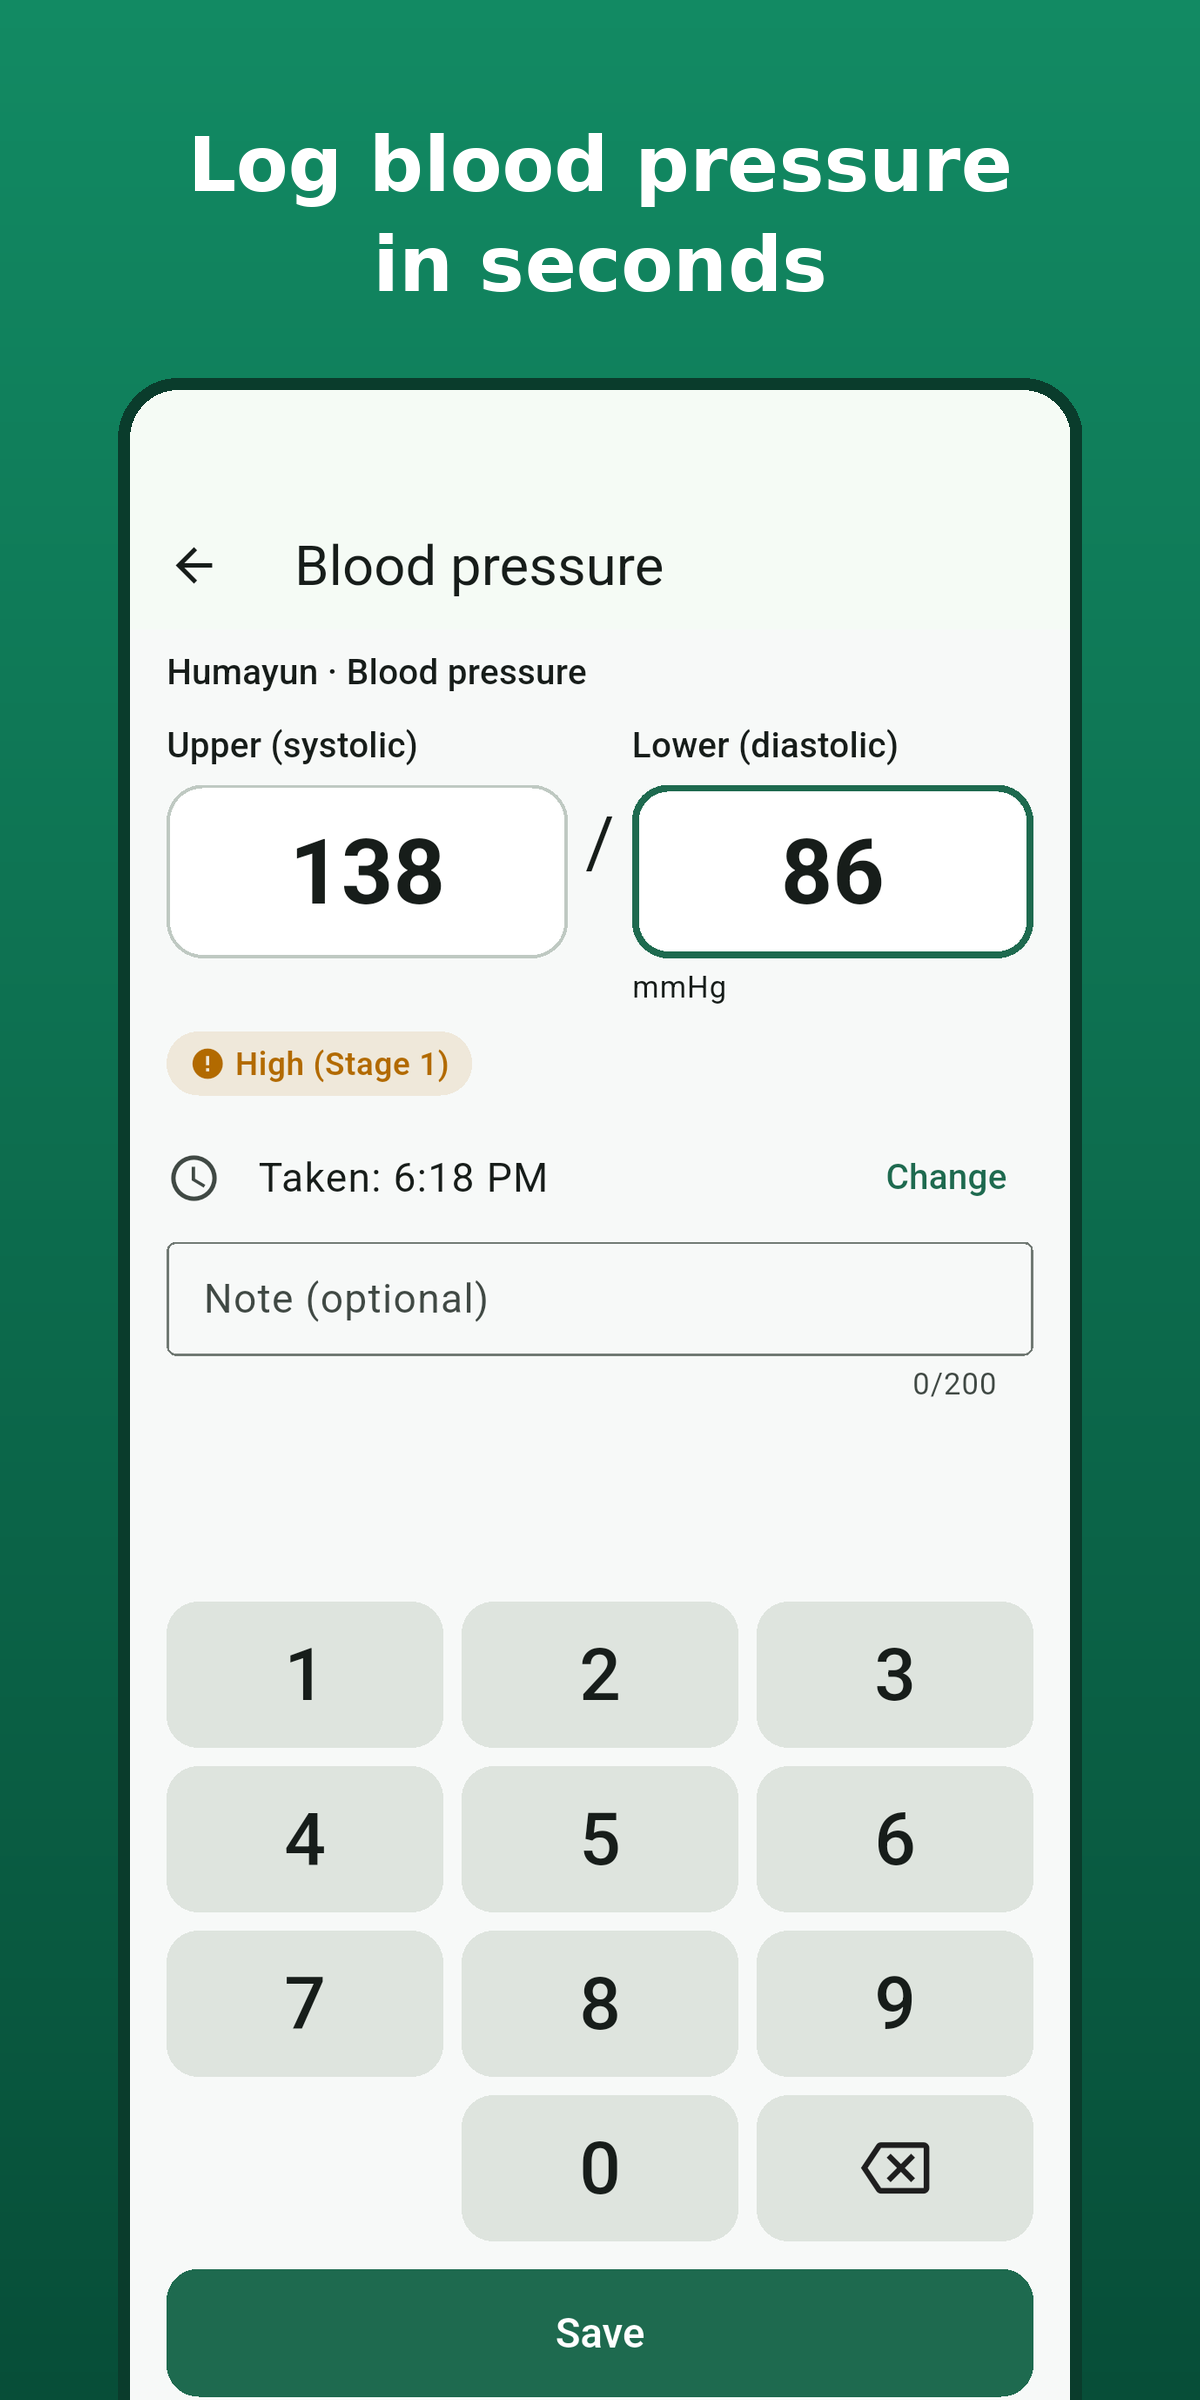
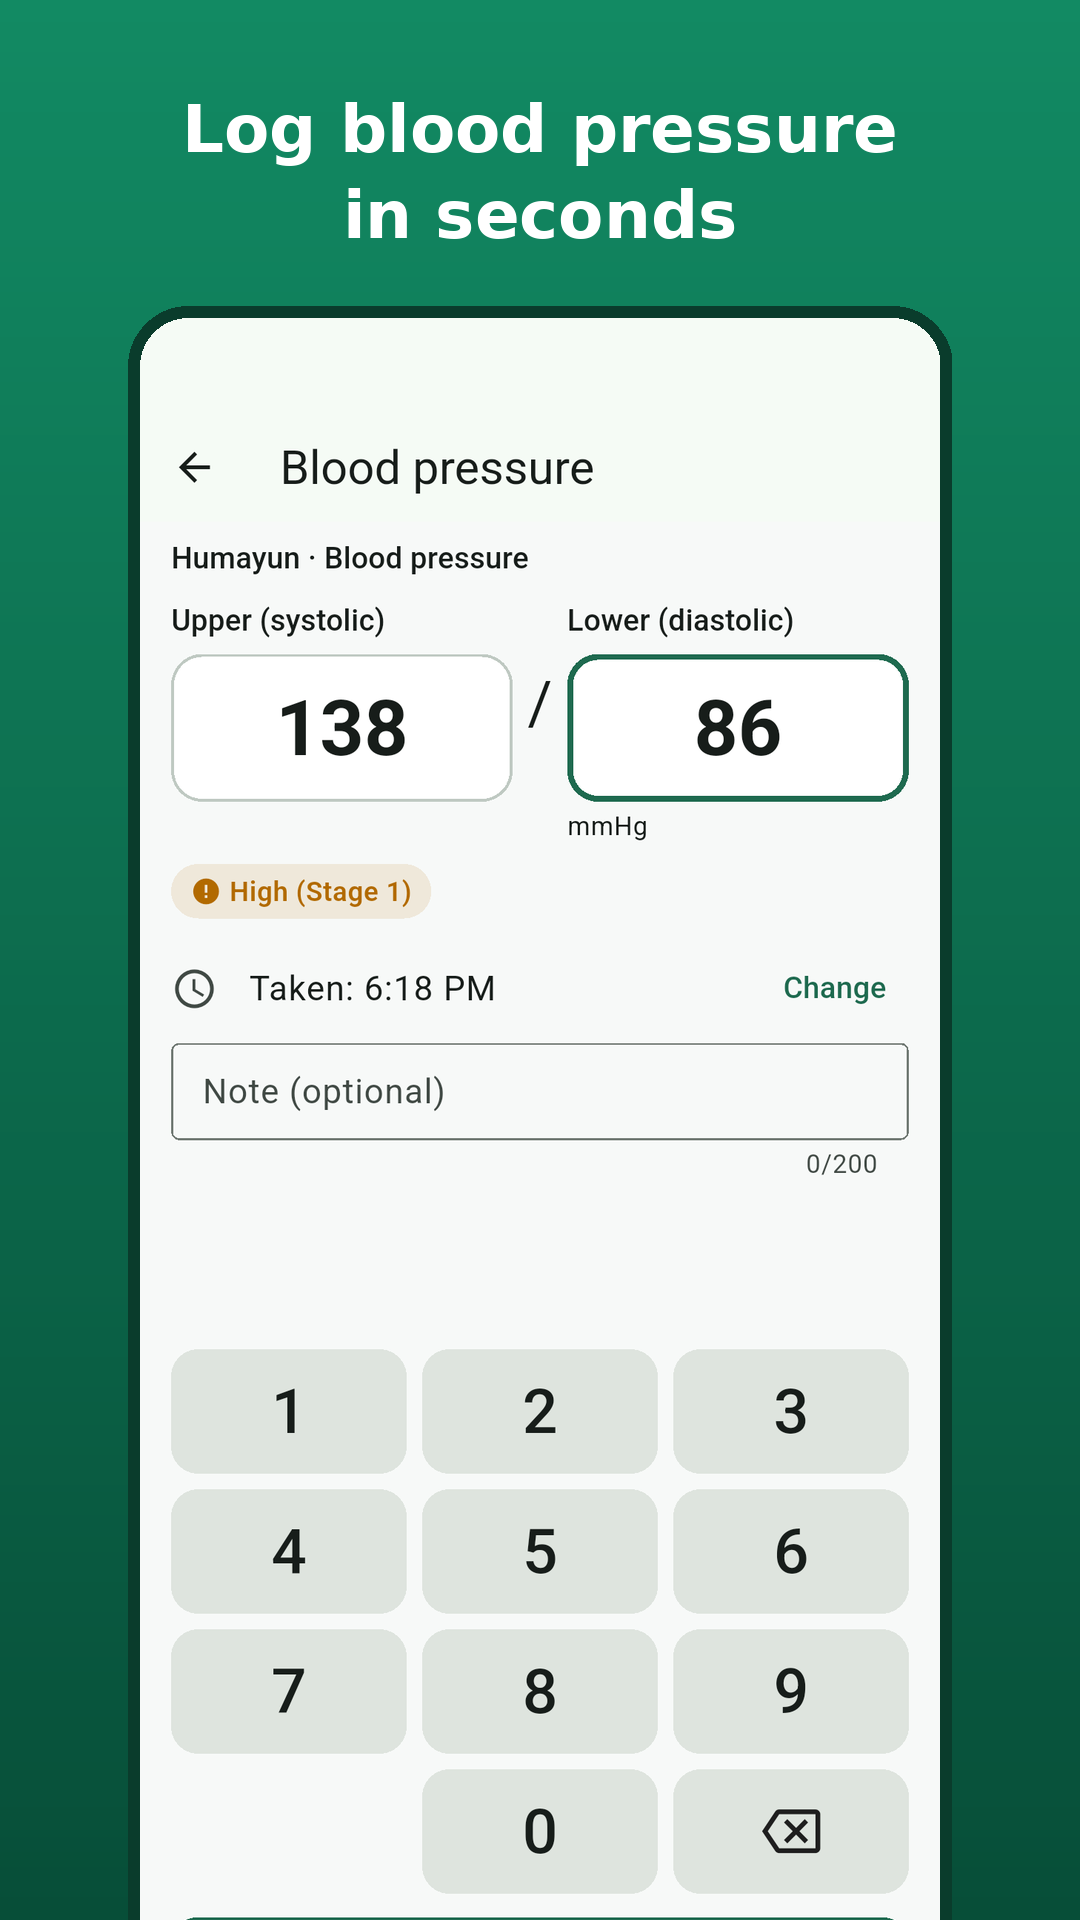
store(v1.1): 8 screenshots at 9:16 for Play's current limits; description changes noted

Changed region(s): [[0.0917, 0.1562, 0.9167, 1.0], [0.1528, 0.0312, 0.8556, 0.125], [0.7333, 0.4688, 0.825, 0.5312]]

diff --git a/scripts/make_store_graphics.py b/scripts/make_store_graphics.py
@@ -24,8 +24,7 @@ SCREENS = [
     ('05_bp_entry', 'store/graphics/screenshots/03_bp_entry.png', 'Log blood pressure\nin seconds'),
     ('06_glucose', 'store/graphics/screenshots/04_glucose_entry.png', 'Blood sugar, fasting\nor after a meal'),
     ('07_family', 'store/graphics/screenshots/08_patients.png', 'Track parents and\nfamily in one account'),
-    ('08_reminders', 'store/graphics/screenshots/07_reminders.png', 'Gentle daily\nreminders'),
-    ('09_urdu', 'store/graphics/screenshots/09_urdu.png', 'In English\nand Urdu'),
+    ('08_urdu', 'store/graphics/screenshots/09_urdu.png', 'In English\nand Urdu'),
 ]
 
 
@@ -59,20 +58,20 @@ def feature_graphic(path):
 
 
 def captioned(path, raw, caption):
-    w, h = 1200, 2400
+    w, h = 1080, 1920  # Play: 9:16, at most 8 screenshots
     img = gradient(w, h, (18, 138, 99), GREEN_DARK)
     d = ImageDraw.Draw(img)
     lines = caption.split('\n')
-    y = 120
-    f = font(76)
+    y = 90
+    f = font(66)
     for line in lines:
         tw = d.textlength(line, font=f)
         d.text(((w - tw) / 2, y), line, font=f, fill=WHITE)
-        y += 100
+        y += 86
     shot = Image.open(raw).convert('RGB')
-    sw = 940
+    sw = 800
     shot = shot.resize((sw, round(shot.height * sw / shot.width)), Image.LANCZOS)
-    top = 120 + 100 * len(lines) + 70
+    top = 90 + 86 * len(lines) + 56
     frame = Image.new('L', shot.size, 0)
     ImageDraw.Draw(frame).rounded_rectangle([0, 0, shot.width, shot.height + 60], radius=48, fill=255)
     border = Image.new('RGB', (sw + 24, shot.height + 24), (10, 60, 44))

diff --git a/store/listing/store_listing.md b/store/listing/store_listing.md
@@ -122,15 +122,20 @@ No exact-alarm, full-screen-intent, camera, location, contacts or storage permis
 - Hi-res icon 512×512: `store/graphics/play_store_icon_512.png`
 - Feature graphic 1024×500 (v1.1): `store/graphics/feature_graphic.png`: homidev art (job
   20261126-1452, approved by Homi 2026-11-26) with the title drawn in code
-- Phone screenshots v1.1 (1200×2400, captioned, within Play's 2:1 limit), upload in order:
-  `store/graphics/phone_screenshots_v11/01..09`
+- Phone screenshots v1.1 (1080×1920 = 9:16, captioned; Play now allows 2–8 at 16:9/9:16),
+  upload in order: `store/graphics/phone_screenshots_v11/01..08`
   01 home · 02 BP trend · 03 period summary · 04 doctor report · 05 BP entry · 06 glucose ·
-  07 family · 08 reminders · 09 Urdu
+  07 family · 08 Urdu
 - v1.0 screenshots (uncaptioned): `store/graphics/phone_screenshots/01..08`
 - Raw device captures: `store/graphics/screenshots/` (v1.0 1080×2400; `10_`/`11_` from the v1.1 OPPO run,
   1080×2372)
 - Sources: `scripts/make_icons.py` (icons) and `scripts/make_store_graphics.py` (feature graphic,
   captioned screenshots)
+
+## Full description changes (v1.1, saved as a Play draft 2026-11-27)
+- "See how things are going" adds: the period summary (average, lowest, highest, morning vs evening)
+- New sections "7-day home BP check" and "Free doctor report" (PDF/CSV, no ads on the report screen)
+- Closing line adds: a small ad on the history screens; readings never shared with advertisers
 
 ## Release notes (v1.1.0) — "What's new" (500 chars max)
 English:
